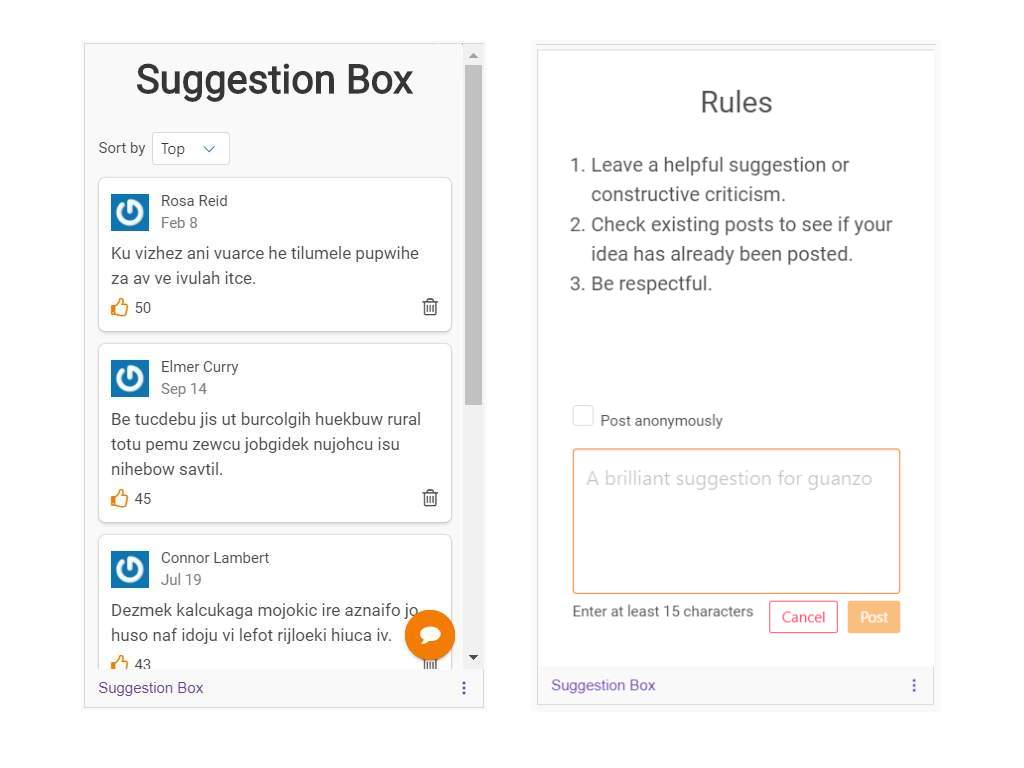
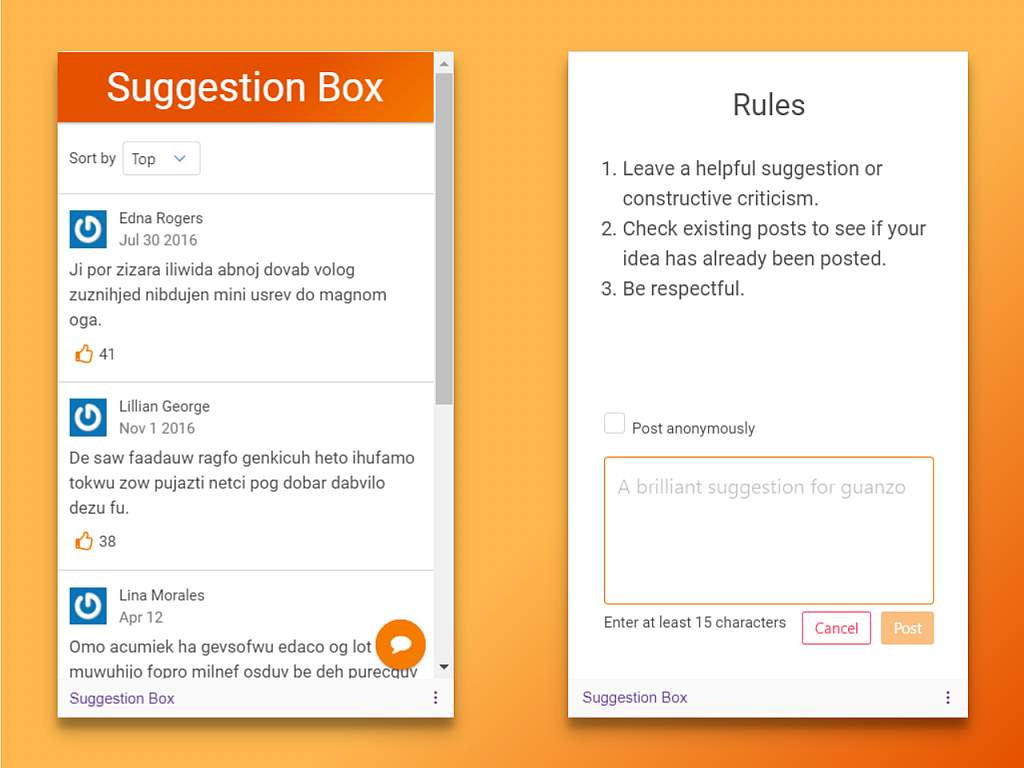
before swtiching from webpack alias to babel-module-ressolver

diff --git a/client/src/components/test/test.js b/client/src/components/test/test.js
@@ -5,13 +5,15 @@ import { isAdminSelector } from '@/store/user'
 import './test.scss'
 import store from '@/store'
 
+const MY_ID = 23435553
+
 class Test extends PureComponent {
     render() {
 		let { currentUser, channel } = this.props
-		if(parseInt(currentUser.id,10) !== 23435553 || parseInt(channel.channelId,10) !== 23435553)
+		if(parseInt(currentUser.id,10) !== MY_ID || parseInt(channel.channelId,10) !== MY_ID)
 			return null;
 
-        let generate = ()=> require('axios').post(`/api/channels/${23435553}/suggestions/test`)
+        let generate = ()=> require('axios').post(`/api/channels/${MY_ID}/suggestions/test`)
         return (
             <div className="test">
 				<button onClick={e=>this.test('isAnonymousUser')}>anon</button>
@@ -37,10 +39,6 @@ class Test extends PureComponent {
 			roles
 		})
 		
-	}
-	onClick = ()=>{
-		this.props.onClick()
-		this.props.onLoadMore()
 	}
 }
 

diff --git a/screenshots/screenshot.html b/screenshots/screenshot.html
@@ -1,0 +1,36 @@
+<html>
+
+<head>
+<style>
+.container{
+	width: 1024px;
+	height: 768px;
+	display: flex;
+	justify-content: space-around;
+	align-items: center;
+	--primary: #E65100;
+	--primary-light: #FFB74D;
+	background: linear-gradient(135deg, var(--primary-light) 60%, var(--primary));
+	margin-bottom: 10px;
+		
+}
+img{
+    box-shadow: 0 14px 28px rgba(0,0,0,0.25), 0 10px 10px rgba(0,0,0,0.22);
+}
+</style>
+</head>
+
+<body>
+
+<div class="container">
+<img src="ss1_1.png">
+<img src="ss1_2.png">
+</div>
+<div class="container">
+<img src="ss2_1.png">
+<img src="ss2_2.png">
+</div>
+
+</body>
+
+<html>

diff --git a/client/config/webpack.config.prod.js b/client/config/webpack.config.prod.js
@@ -108,6 +108,10 @@ const prodWebpackConfig = merge(baseWebpackConfig,{
   module: {
     strictExportPresence: true,
     rules: [
+	  {//remove test gui 
+        test: /test.js/,
+        use: 'null-loader'
+      },
       // TODO: Disable require.ensure as it's not a standard language feature.
       // We are waiting for https://github.com/facebookincubator/create-react-app/issues/2176.
       // { parser: { requireEnsure: false } },

diff --git a/client/src/components/page-viewer/suggest/PreForm.js b/client/src/components/page-viewer/suggest/PreForm.js
@@ -7,7 +7,7 @@ class PreForm extends Component {
 		let { isAnonymousUser } = currentUser
 		let component = '';
 		if(isAnonymousUser)
-			component = <p className="m-b-15">You must login to suggest</p>
+			component = <p className="m-b-15">You must login to post</p>
 		else if(!isAllowedToSuggest)
 			component = <Countdown lastSuggestionDate={lastSuggestionDate}></Countdown>
         return (

diff --git a/server/src/routes/suggestions.js b/server/src/routes/suggestions.js
@@ -118,11 +118,6 @@ module.exports = (app) => {
         res.sendStatus(status)
 	})
 
-    /* if(process.env.NODE_ENV === 'development'){
-        app.post('/api/channels/23435553/suggestions/test',async () => {
-            suggestionGenerator.generate()
-        })
-    } */
 	app.post('/api/channels/23435553/suggestions/test',(req,res) => {
 
 		if(parseInt(req.user.id) !== 23435553)

diff --git a/client/src/components/page-viewer/suggest/PostForm.js b/client/src/components/page-viewer/suggest/PostForm.js
@@ -15,7 +15,7 @@ class PostForm extends Component {
 				</Countdown>
                 <button className="button is-primary" onClick={onClose}>Okay</button>
 				<p className="has-text-centered help m-t-50">
-					Your suggestion is subject to moderation at any time
+					Your suggestion is subject <br/>to moderation at any time
 				</p>
 			</div>
         )

diff --git a/client/src/components/page-viewer/Viewer.js b/client/src/components/page-viewer/Viewer.js
@@ -3,6 +3,7 @@ import Header from './header/Header'
 import Body from './body/Body'
 import './Viewer.scss';
 import Overlay from '@/components/page-viewer/suggest/_Overlay'
+//removed in production build
 import Test from '@/components/test/test'
 
 class Viewer extends Component {
